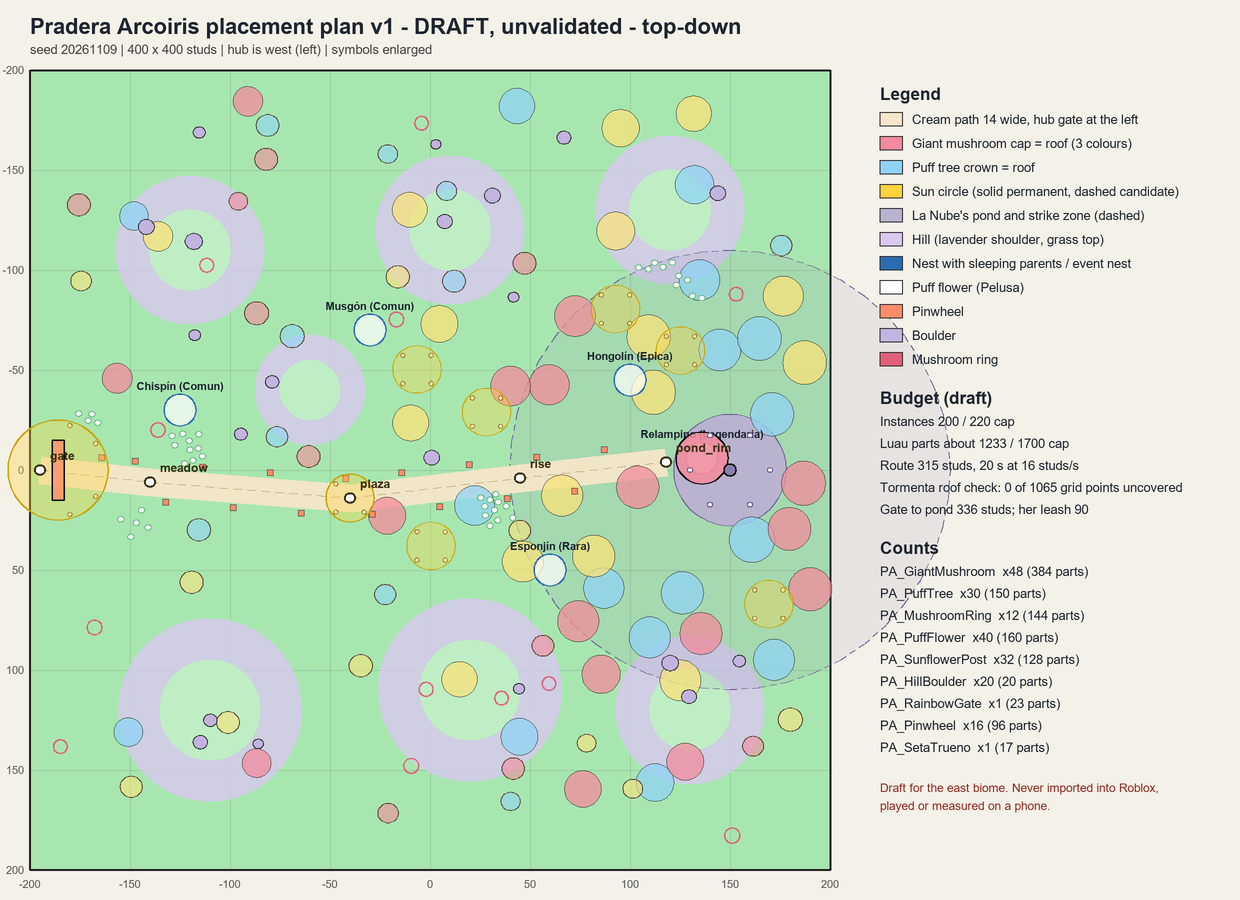
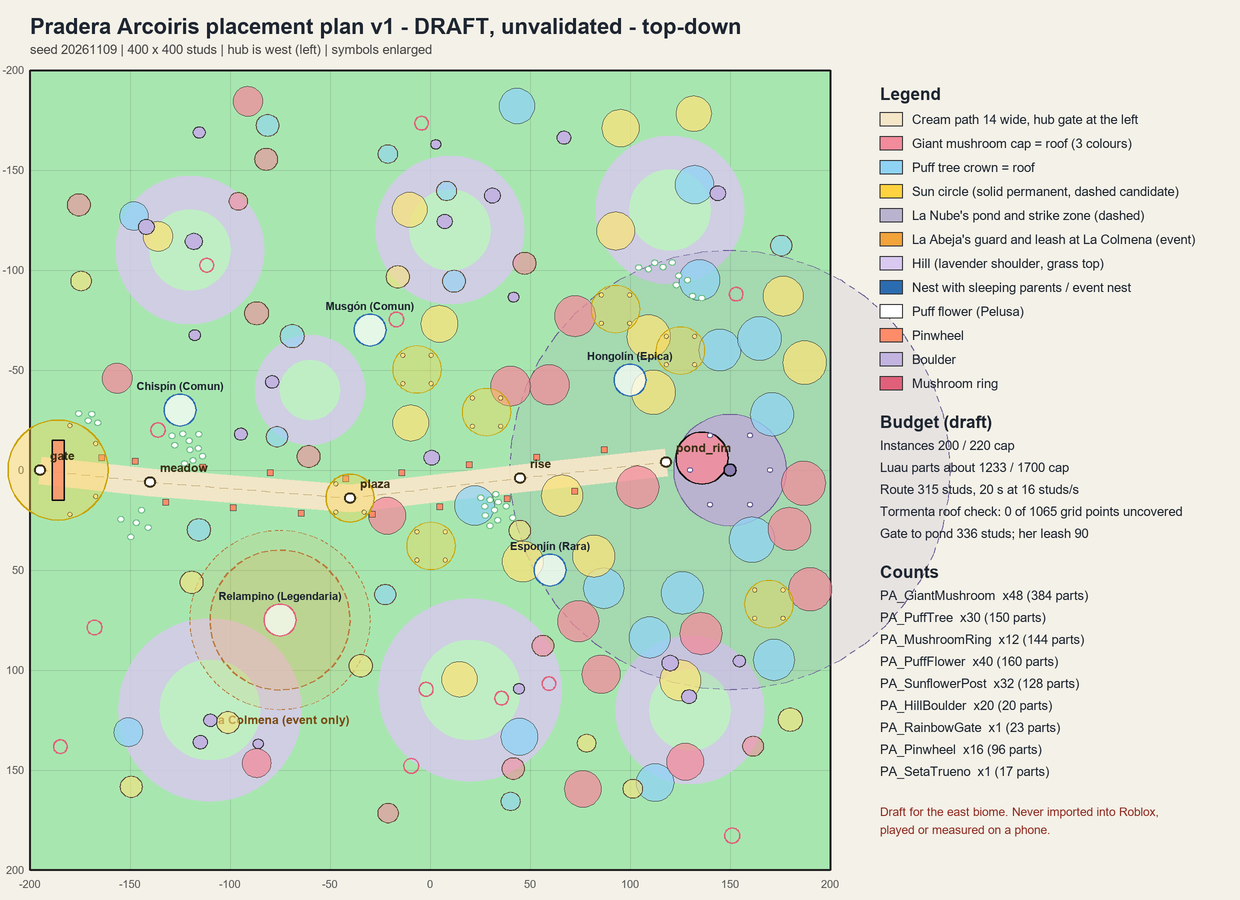
feat(tools): place La Abeja Reina's event ground at La Colmena in the Pradera plan
Move the event nest (Relampino) from the Seta Trueno to La Colmena, a flat
glade at sector (-75, 75), world (225, 75). Add an abeja_event block with the
guard, leash and wake radii, the event clock and the tuning values, and
enforce that her leash disc stays outside la Nube's strike zone, every sun
circle and the path. The Seta Trueno keeps its landmark role without the
event pedestal. Regenerate the layout, the Luau kit module and its report.

diff --git a/tools/plan_pradera_layout.py b/tools/plan_pradera_layout.py
@@ -80,14 +80,36 @@ SPECIES = (
      "body": "FFFFFF", "accent": "D9C8F0", "eye": "4A3F6B", "glow": "F2ECFF"},
     {"id": "Hongolin", "name": "Hongolín", "rarity": "Epica", "nest": (100.0, -45.0), "adults": 3,
      "body": "F28B9B", "accent": "FFF4E0", "eye": "3A2E22", "glow": "FFD7DE"},
-    {"id": "Relampino", "name": "Relampino", "rarity": "Legendaria", "nest": (136.0, -6.0), "adults": 0,
+    {"id": "Relampino", "name": "Relampino", "rarity": "Legendaria", "nest": (-75.0, 75.0), "adults": 0,
      "body": "B4A8D2", "accent": "FFD23F", "eye": "2B2440", "glow": "FFF1A8", "event_only": True},
 )
 NEST_RADIUS, NEST_ADULT_RING, NEST_CLEAR = 8.0, 6.0, 10.0
 BANDS = (("Legendaria", 0.0, LEGENDARIA_BAND), ("Epica", LEGENDARIA_BAND, EPICA_BAND),
          ("Rara", EPICA_BAND, RARA_BAND), ("Comun", RARA_BAND, math.inf))
-SETA_TRUENO = (136.0, -6.0)          # the tallest mushroom, in the shallows; the event nest sits on its cap
+SETA_TRUENO = (136.0, -6.0)          # the tallest mushroom, in the shallows; a landmark and roof, no longer the event pedestal
 SETA_TRUENO_CAP_TOP = 26.0
+
+# ---- Biome event: La Abeja Reina guards the event egg at La Colmena ------------------------
+# User decision 2026-11-10: la Nube is the permanent beast; La Abeja Reina wakes only while the
+# 20-minute event egg is up (visible 5 minutes) and guards it, then sleeps. Her ground never
+# touches la Nube's strike zone, a sun circle, the gate or the path, so one player is never the
+# target of two beasts at once. Every number is a hypothesis for the tuning panel.
+HIVE = (-75.0, 75.0)                  # La Colmena: the event egg pedestal, in a flat clearing south of the path
+HIVE_CLEAR = NEST_RADIUS + 2.0        # no solid footprint this close to the egg pedestal (the wild-nest rule)
+ABEJA_PATROL_RADIUS = 18.0            # her guard loop around the egg
+ABEJA_GUARD_RADIUS = 35.0             # her strike zone ("colmenar"): she telegraphs and stings only inside it
+ABEJA_LEASH = 45.0                    # she never flies farther than this from the egg
+ABEJA_WAKE_RADIUS = 70.0              # a player's own Abeja wakes only while its owner is this close during the event
+ABEJA_BEAST_GAP = 15.0                # her leash disc stays this far outside la Nube's strike zone
+ABEJA_SUN_GAP = 5.0                   # and this far from every sun circle's rim
+ABEJA_ROUTE_GAP = 3.0                 # and this far from the path's edge
+EVENT_FIRST_SECONDS, EVENT_PERIOD_SECONDS, EVENT_WINDOW_SECONDS = 300.0, 1200.0, 300.0
+ABEJA_TUNING = {"ABEJA_WAKE_SECONDS": 3.0, "ABEJA_SLEEP_SECONDS": 4.0, "ABEJA_PATROL_SPEED": 7.0,
+                "ABEJA_CHASE_SPEED": 10.0, "ABEJA_HEAR_WALK": 30.0, "ABEJA_HEAR_SPRINT": 55.0,
+                "ABEJA_HEAR_STILL": 0.0, "ABEJA_NOTICE_SECONDS": 1.0, "ABEJA_MEMORY_SECONDS": 3.0,
+                "ABEJA_TELEGRAPH_SECONDS": 1.2, "ABEJA_TELEGRAPH_FLOOR": 0.8, "ABEJA_LANE_WIDTH": 6.0,
+                "ABEJA_DIVE_LENGTH": 12.0, "ABEJA_COOLDOWN_SECONDS": 2.5, "ABEJA_STICKY_SPEED": 9.0,
+                "ABEJA_STICKY_SECONDS": 6.0, "ABEJA_PARK_SECONDS": 120.0, "ABEJA_NIGHT_HEARING_SCALE": 0.5}
 
 # ---- Kit (PA_) footprints and Luau part counts --------------------------------------------
 # "parts" is what tools/build-pradera-kit.py emits per instance (primitives), not MeshParts.
@@ -294,6 +316,8 @@ def plan_sun_circles(rng, nests):
             continue
         if any(dist(p, n) < SUN_RADIUS + NEST_RADIUS + 6.0 for n in nests):
             continue
+        if dist(p, HIVE) < ABEJA_LEASH + SUN_RADIUS + ABEJA_SUN_GAP:
+            continue
         if not hill_clearance(p, SUN_RADIUS + 2.0):
             continue
         placed.append({"id": f"sun-{len(placed) + 1:02d}", "x": r3(p[0]), "z": r3(p[1]), "radius": SUN_RADIUS,
@@ -315,11 +339,12 @@ def plan_nests():
             points.append({"x": r3(x + fx * NEST_ADULT_RING), "z": r3(z + fz * NEST_ADULT_RING),
                            "faceX": r3(fx), "faceZ": r3(fz)})
         event = bool(spec.get("event_only"))
+        # The event egg is Legendaria by rule (it hatches from the event only), not by its distance from her pond.
         nests.append({"id": f"N{len(nests) + 1}", "species": spec["id"], "displayName": spec["name"],
-                      "rarity": spec["rarity"], "x": r3(x), "z": r3(z),
-                      "y": r3(SETA_TRUENO_CAP_TOP if event else ground_height(x, z)),
+                      "rarity": spec["rarity"], "x": r3(x), "z": r3(z), "y": r3(ground_height(x, z)),
                       "radius": NEST_RADIUS, "adults": spec["adults"], "adultPoints": points,
-                      "band": band(x, z), "distance_to_home": r3(dist((x, z), HOME)), "zone": zone(x, z),
+                      "band": "Legendaria" if event else band(x, z), "distance_to_home": r3(dist((x, z), HOME)),
+                      "zone": zone(x, z),
                       "eventOnly": event, "colors": {k: spec[k] for k in ("body", "accent", "eye", "glow")}})
     return nests
 
@@ -584,6 +609,36 @@ def place_flowers(placer, ids, rng):
     return flowers, [p["size"] for p in patches]
 
 
+# ---- Biome event -------------------------------------------------------------------------
+def abeja_event(instances, circles, nests):
+    """La Colmena, La Abeja Reina's guard discs and the event clock, with the clearances the tests re-derive."""
+    solids = [i for i in instances if i["name"] != "PA_PuffFlower"]
+    egg = next(n for n in nests if n["eventOnly"])
+    assert (egg["x"], egg["z"]) == HIVE, "the event nest must sit at La Colmena"
+    nube_gap = dist(HIVE, HOME) - TORMENTA_RADIUS - ABEJA_LEASH
+    sun_gap = min(dist(HIVE, (c["x"], c["z"])) - c["radius"] - ABEJA_LEASH for c in circles)
+    route_gap = route_distance(HIVE) - CORRIDOR_HALF - ABEJA_LEASH
+    clear = min(g.shape_point_dist(footprint(i), HIVE) for i in solids)
+    assert nube_gap >= ABEJA_BEAST_GAP, "La Colmena overlaps la Nube's strike zone"
+    assert sun_gap >= ABEJA_SUN_GAP, "La Colmena overlaps a sun circle"
+    assert route_gap >= ABEJA_ROUTE_GAP, "La Colmena overlaps the path"
+    assert clear >= HIVE_CLEAR, "a prop crowds the event egg"
+    assert max(abs(HIVE[0]), abs(HIVE[1])) + ABEJA_LEASH <= LIMIT, "her leash leaves the sector"
+    return {
+        "name": "AbejaReina", "displayName": "La Abeja Reina", "event": "Huevo Real",
+        "hive": [HIVE[0], HIVE[1]], "hive_world": [r3(HIVE[0] + WORLD_OFFSET[0]), r3(HIVE[1] + WORLD_OFFSET[1])],
+        "egg_nest": egg["id"], "egg_species": egg["species"],
+        "patrol_radius": ABEJA_PATROL_RADIUS, "guard_radius": ABEJA_GUARD_RADIUS, "leash": ABEJA_LEASH,
+        "wake_radius": ABEJA_WAKE_RADIUS, "hive_clear": HIVE_CLEAR,
+        "clock": {"first_seconds": EVENT_FIRST_SECONDS, "period_seconds": EVENT_PERIOD_SECONDS,
+                  "window_seconds": EVENT_WINDOW_SECONDS, "awake": "only while the event egg is up"},
+        "clearances": {"beyond_nube_strike_zone": r3(nube_gap), "beyond_sun_circles": r3(sun_gap),
+                       "beyond_path_edge": r3(route_gap), "prop_clearance": r3(clear),
+                       "gate_distance": r3(dist(HIVE, GATE)), "nube_home_distance": r3(dist(HIVE, HOME))},
+        "tuning": dict(ABEJA_TUNING),
+    }
+
+
 # ---- Assembly ---------------------------------------------------------------------------
 def roof_coverage(instances):
     grid = tormenta_grid()
@@ -597,7 +652,9 @@ def generate(seed=DEFAULT_SEED):
     nests = plan_nests()
     nest_points = [(n["x"], n["z"]) for n in nests if not n["eventOnly"]]
     circles = plan_sun_circles(rng, nest_points)
-    placer, ids = Placer([(c["x"], c["z"], c["radius"]) for c in circles], nest_points), IdSource()
+    # The event nest at La Colmena is cleared like a wild nest, so the egg pedestal stands in an open glade.
+    placer = Placer([(c["x"], c["z"], c["radius"]) for c in circles], nest_points + [HIVE])
+    ids = IdSource()
     gate = place_gate(placer, ids)
     seta = place_seta_trueno(placer, ids)
     posts = place_posts(placer, ids, circles)
@@ -659,6 +716,7 @@ def generate(seed=DEFAULT_SEED):
                   "gate_distance": r3(dist(HOME, GATE))},
         "nests": nests,
         "sun_circles": circles,
+        "abeja_event": abeja_event(instances, circles, nests),
         "roof_coverage": roof_coverage(instances),
         "density": {"mushroom_scale_mean": {"tormenta": r3(sum(tormenta_scales) / len(tormenta_scales)),
                                             "prado": r3(sum(prado_scales) / len(prado_scales))},
@@ -696,6 +754,13 @@ def build_scene(layout):
         scene.circle(world.px(hill["x"]), world.py(hill["z"]), hill["footprint_radius"] * s * 0.55, fill="#bfeec4")
     scene.circle(world.px(HOME[0]), world.py(HOME[1]), TORMENTA_RADIUS * s, fill="#8c7fb0", fo=0.12,
                  stroke="#6b5e94", sw=1.2, dash=(6, 5))
+    ev = layout["abeja_event"]
+    scene.circle(world.px(ev["hive"][0]), world.py(ev["hive"][1]), ev["leash"] * s, fill="#f2a33a", fo=0.10,
+                 stroke="#b8793a", sw=1.0, dash=(3, 4))
+    scene.circle(world.px(ev["hive"][0]), world.py(ev["hive"][1]), ev["guard_radius"] * s, fill="#f2a33a", fo=0.18,
+                 stroke="#b8793a", sw=1.4, dash=(6, 5))
+    scene.text(world.px(ev["hive"][0]), world.py(ev["hive"][1]) + ev["leash"] * s + 14, "La Colmena (event only)",
+               size=12, bold=True, fill="#7a4a12", anchor="middle")
     pond = layout["terrain"]["pond"]
     scene.circle(world.px(pond["x"]), world.py(pond["z"]), pond["radius"] * s, fill="#b9b3cf", stroke="#6b5e94", sw=1)
     scene.line([world.pt(p) for p in ROUTE], stroke="#f5e6c8", sw=2 * CORRIDOR_HALF * s, so=0.95)
@@ -743,7 +808,8 @@ def build_scene(layout):
     scene.text(x0, y, "Legend", size=17, bold=True)
     rows = [("Cream path 14 wide, hub gate at the left", "#f5e6c8"), ("Giant mushroom cap = roof (3 colours)", "#f28b9b"),
             ("Puff tree crown = roof", "#8fd3f4"), ("Sun circle (solid permanent, dashed candidate)", "#ffd23f"),
-            ("La Nube's pond and strike zone (dashed)", "#b9b3cf"), ("Hill (lavender shoulder, grass top)", "#d9c8f0"),
+            ("La Nube's pond and strike zone (dashed)", "#b9b3cf"),
+            ("La Abeja's guard and leash at La Colmena (event)", "#f2a33a"), ("Hill (lavender shoulder, grass top)", "#d9c8f0"),
             ("Nest with sleeping parents / event nest", "#2b6cb0"), ("Puff flower (Pelusa)", "#ffffff"),
             ("Pinwheel", "#ff8c69"), ("Boulder", "#c2b3e0"), ("Mushroom ring", "#e0607a")]
     for label, colour in rows:

diff --git a/tools/test_plan_pradera_layout.py b/tools/test_plan_pradera_layout.py
@@ -37,6 +37,12 @@ STEM_R, CAP_R, TRUNK_R, CROWN_R = 2.5, 9.0, 1.2, 5.0
 RING_R, FLOWER_R, POST_R, BOULDER_R, PINWHEEL_R = 3.5, 2.0, 1.5, 3.0, 1.0
 GATE_HALF, SETA_STEM_R, SETA_CAP_R, SETA_CAP_TOP = (15.0, 3.0), 3.5, 13.0, 26.0
 ROOF_REACH, MAX_SLOPE_DEG, NEST_RADIUS = 25.0, 25.0, 8.0
+# La Abeja Reina, the event beast (user decision 2026-11-10): her ground never meets la Nube's.
+HIVE, HIVE_CLEAR = (-75.0, 75.0), 10.0
+ABEJA_GUARD, ABEJA_LEASH, ABEJA_WAKE, ABEJA_PATROL = 35.0, 45.0, 70.0, 18.0
+ABEJA_BEAST_GAP, ABEJA_SUN_GAP, ABEJA_ROUTE_GAP = 15.0, 5.0, 3.0
+EVENT_CLOCK = {"first_seconds": 300.0, "period_seconds": 1200.0, "window_seconds": 300.0}
+FAIR_TELEGRAPH_FLOOR, PLAYER_WALK = 0.8, 16.0
 ALT_SEEDS = (11, 4242)
 
 
@@ -89,7 +95,7 @@ class RuleChecks:
     def check_schema(self):
         layout = self.layout
         for key in ("name", "biome", "status", "seed", "world", "caps", "totals", "route", "terrain", "zones",
-                    "beast", "nests", "sun_circles", "roof_coverage", "density", "instances"):
+                    "beast", "nests", "sun_circles", "abeja_event", "roof_coverage", "density", "instances"):
             self.assertIn(key, layout)
         self.assertIn("unvalidated", layout["status"])
         self.assertEqual(layout["biome"]["displayName"], "Pradera Arcoíris")
@@ -258,7 +264,8 @@ class RuleChecks:
             self.assertEqual(n["rarity"], SPECIES[n["species"]])
             lo, hi = BANDS[n["rarity"]]
             d = math.dist((n["x"], n["z"]), HOME)
-            self.assertTrue(lo <= d < hi, f"{n['species']} at {d:.1f} studs is not in the {n['rarity']} band")
+            if not n["eventOnly"]:  # the event egg is Legendaria by rule, wherever La Colmena stands
+                self.assertTrue(lo <= d < hi, f"{n['species']} at {d:.1f} studs is not in the {n['rarity']} band")
             self.assertEqual(n["band"], n["rarity"])
             self.assertEqual(n["radius"], NEST_RADIUS)
             self.assertEqual(len(n["adultPoints"]), n["adults"])
@@ -271,10 +278,9 @@ class RuleChecks:
             if n["eventOnly"]:
                 self.assertEqual(n["adults"], 0)
                 self.assertEqual(n["species"], "Relampino")
-                seta = by_name(self.layout, "PA_SetaTrueno")[0]
-                self.assertEqual((n["x"], n["z"]), xz(seta), "the event nest sits on the Seta Trueno")
-                self.assertEqual(n["y"], SETA_CAP_TOP)
-                self.assertLess(math.dist((n["x"], n["z"]), HOME), 20.0)
+                self.assertEqual((n["x"], n["z"]), HIVE, "the event nest sits at La Colmena, not on the Seta Trueno")
+                self.assertEqual(n["y"], 0.0, "the egg pedestal stands on flat ground")
+                self.assertGreater(math.dist((n["x"], n["z"]), HOME), TORMENTA_RADIUS, "outside la Nube's strike zone")
             else:
                 self.assertGreaterEqual(n["adults"], 2)
                 self.assertLessEqual(n["adults"], 3)
@@ -304,8 +310,7 @@ class RuleChecks:
             self.assertGreaterEqual(math.dist((hill["x"], hill["z"]), GATE) - foot, GATE_SUN + 2.0)
             self.assertGreaterEqual(math.dist((hill["x"], hill["z"]), PLAZA) - foot, SUN_RADIUS + 2.0)
             for n in self.layout["nests"]:
-                if not n["eventOnly"]:
-                    self.assertGreaterEqual(math.dist((hill["x"], hill["z"]), (n["x"], n["z"])) - foot, NEST_RADIUS)
+                self.assertGreaterEqual(math.dist((hill["x"], hill["z"]), (n["x"], n["z"])) - foot, NEST_RADIUS)
         for inst in self.layout["instances"]:
             expected = 0.0 if inst["name"] == "PA_SetaTrueno" else hill_height(hills, inst["x"], inst["z"])
             self.assertAlmostEqual(inst["y"], expected, delta=0.002, msg=inst["id"])
@@ -338,6 +343,40 @@ class RuleChecks:
         self.assertGreater(d, 12.0)
         self.assertLess(d, POND_RADIUS - SETA_STEM_R, "the Seta Trueno stands in the shallows")
         self.assertEqual(self.layout["zones"]["bands"]["Epica"], [45.0, 80.0])
+
+    def check_abeja_event(self):
+        ev = self.layout["abeja_event"]
+        self.assertEqual(ev["displayName"], "La Abeja Reina")
+        self.assertEqual(tuple(ev["hive"]), HIVE)
+        self.assertEqual(tuple(ev["hive_world"]), (HIVE[0] + WORLD_OFFSET[0], HIVE[1] + WORLD_OFFSET[1]))
+        self.assertEqual((ev["patrol_radius"], ev["guard_radius"], ev["leash"], ev["wake_radius"]),
+                         (ABEJA_PATROL, ABEJA_GUARD, ABEJA_LEASH, ABEJA_WAKE))
+        self.assertLess(ev["patrol_radius"], ev["guard_radius"])
+        self.assertLess(ev["guard_radius"], ev["leash"])
+        self.assertLess(ev["leash"], ev["wake_radius"])
+        self.assertEqual({k: ev["clock"][k] for k in EVENT_CLOCK}, EVENT_CLOCK)
+        egg = next(n for n in self.layout["nests"] if n["eventOnly"])
+        self.assertEqual(ev["egg_nest"], egg["id"])
+        # Never two beasts on one player: her whole leash disc stays outside la Nube's strike zone, with a margin.
+        self.assertGreaterEqual(math.dist(HIVE, HOME) - TORMENTA_RADIUS - ABEJA_LEASH, ABEJA_BEAST_GAP)
+        # Safe places stay safe: no sun circle (permanent or candidate, the gate's included) touches her leash disc.
+        for c in self.layout["sun_circles"]:
+            self.assertGreaterEqual(math.dist(HIVE, (c["x"], c["z"])) - c["radius"] - ABEJA_LEASH, ABEJA_SUN_GAP, c["id"])
+        self.assertGreater(math.dist(HIVE, GATE) - GATE_SUN - ABEJA_LEASH, 50.0, "far from the gate")
+        # A child on the cream path is never inside her ground.
+        self.assertGreaterEqual(g.project_to_polyline(ROUTE, HIVE)[0] - CORRIDOR_HALF - ABEJA_LEASH, ABEJA_ROUTE_GAP)
+        self.assertLessEqual(max(abs(HIVE[0]), abs(HIVE[1])) + ABEJA_LEASH, LIMIT, "her leash stays in the sector")
+        self.assertEqual(hill_height(self.layout["terrain"]["hills"], *HIVE), 0.0)
+        for solid in self.solids():
+            self.assertGreaterEqual(g.shape_point_dist(reach(solid), HIVE), HIVE_CLEAR - 1e-6, solid["id"])
+        tuning = ev["tuning"]
+        self.assertGreaterEqual(tuning["ABEJA_TELEGRAPH_SECONDS"], FAIR_TELEGRAPH_FLOOR)
+        self.assertEqual(tuning["ABEJA_TELEGRAPH_FLOOR"], FAIR_TELEGRAPH_FLOOR)
+        self.assertLess(tuning["ABEJA_CHASE_SPEED"], PLAYER_WALK, "walking away always works")
+        self.assertGreater(tuning["ABEJA_STICKY_SPEED"], 8.0, "the shared carrySpeed > 8 contract holds")
+        self.assertEqual(tuning["ABEJA_HEAR_STILL"], 0.0, "standing still is always silent")
+        # Leaving the 6-stud lane from its centre at the honey speed beats the telegraph.
+        self.assertLess((tuning["ABEJA_LANE_WIDTH"] / 2) / tuning["ABEJA_STICKY_SPEED"], tuning["ABEJA_TELEGRAPH_SECONDS"])
 
     def check_pinwheels_line_the_path(self):
         pinwheels = by_name(self.layout, "PA_Pinwheel")
@@ -418,6 +457,9 @@ class DefaultSeed(RuleChecks, unittest.TestCase):
 
     def test_beast(self):
         self.check_beast()
+
+    def test_abeja_event(self):
+        self.check_abeja_event()
 
     def test_pinwheels_line_the_path(self):
         self.check_pinwheels_line_the_path()

diff --git a/tools/build-pradera-kit.py b/tools/build-pradera-kit.py
@@ -56,7 +56,7 @@ SIGNS = (
     ("praderaPond", "Charca de la Nube Gruñona", 118.0, -16.0, 180.0, 6.5),
 )
 SIGN_PARTS = 2
-FIXED_PARTS = 1 + 1 + 5  # floor, pond, markers (gate, plaza, beast home, event nest, seta top)
+FIXED_PARTS = 1 + 1 + 5  # floor, pond, markers (gate, plaza, beast home, event nest at La Colmena, seta top)
 
 
 def hex_to_rgb(value):
@@ -390,8 +390,9 @@ function props.PA_SetaTrueno(parent, inst)
             * CFrame.Angles(0, -a, 0), CAPS[CAP_ORDER[k % 3 + 1]], { collide = true })
     end
     roof(model, Vector3.new(26, 1, 26), base * CFrame.new(0, 19, 0))
-    cylinder(model, 'EventPedestal', 3, 0.4, base * CFrame.new(0, 26.2, 0), palette.neonSun, { material = Enum.Material.Neon })
-    marker(model, 'EventEggMarker', base * CFrame.new(0, 27, 0))
+    -- No longer the event pedestal: the event egg sits at La Colmena (abeja_event in the plan). A plain crown stays.
+    cylinder(model, 'Crown', 3, 0.4, base * CFrame.new(0, 26.2, 0), palette.capButter)
+    marker(model, 'LookoutMarker', base * CFrame.new(0, 27, 0))
     model:SetAttribute('Landmark', 'SetaTrueno')
     model.Parent = parent
     return model
